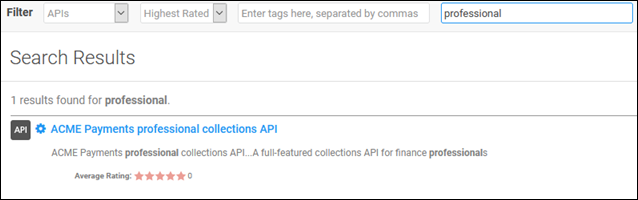
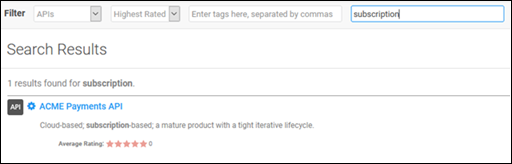
ATMO-38432_expand_search_results

diff --git a/cm/learnmore/apiadmin_api_add.htm b/cm/learnmore/apiadmin_api_add.htm
@@ -44,8 +44,13 @@ nav-title: Add an API
 	<li><a href="#api_approval_required">Should I require approval for API access requests?</a></li>
 	<li><a href="#what_is_a_proxy_api">Why would I use the platform to proxy my API?</a></li>
 	<li><a href="#platform_support_of_overloaded_operations">Does the platform support overloaded operations?</a></li>
-	<li><a href="#api_search_results">How can I control the search results entry for my API?</a></li>
-</ol>
+	<li><a href="#api_search_results">How can I control the search results entry for my API?</a>
+		<ul>
+			<li><a href="#search_results_entry_construction">How the search results entry is constructed</a></li>
+			<li><a href="#search_results_entry_examples">Search entry results: examples</a></li>
+		</ul>
+	</li>
+	</ol>
 
 
 
@@ -552,53 +557,90 @@ nav-title: Add an API
 <h4 class="stamp">Valid in Version: 2019.1.32 and later</h4>
 <p>When users search for your API in the <strong>All APIs</strong> list, or perform any search that will include your API in the search results, a snippet of information is displayed about your API in the search results.</p>
 <p>The search results entry is an opportunity to showcase your API in a brief summary.</p>
-<p>In earlier versions, the Community Manager developer portal displayed information from the <strong>API Description</strong> field for the search results entry. In version 2019.1.32 and later, it constructs the copy for the search results entry by pulling information (depending on the term or terms that the user searches on) from either or both of these two fields in the API definition:</p>
+<p>In versions prior to 2019.1.32, the Community Manager developer portal displayed information from the <strong>API Description</strong> field for the search results entry. In version 2019.1.32 and later, it supports keyword search in the <strong>Summary</strong> field also. To match a search term, it pulls the copy for the search results entry from a concatenation of both these fields in the API definition:</p>
 <ol>
 	<li>Summary</li>
-	<li>API Description
-	<p><strong>Note</strong>: When you create an API, if you don't provide a value in the Description field, the <strong>API Name</strong> is used for the <strong>API Description</strong>.</p></li>
+	<li>API Description (or API Name if no API Description is provided)</li>
 </ol>
-<p>Some examples of search entries are shown below.</p>
-<p>In constructing the search results entry, the platform looks for the search string across all APIs that the user has access to, and applies the following logic:</p>
+	<p><strong>Note</strong>: For information about setting up the <strong>Summary</strong> and <strong>API Description</strong> fields, see <a href="#proc_api_edit">To edit basic data about an API or API version</a> above.</p>
+
+<h3 id="search_results_entry_construction">How the search results entry is constructed</h3>
+<p>For the search results entry, the Search feature pulls from a concatenated string of the Summary and Description fields, using an ellipsis (...) as a delimiter if information is pulled from different sections.</p>
+<p>There are two basic scenarios:</p>
 <ul>
-	<li>If there is a match only in the Summary, the search results entry includes the whole <strong>Summary</strong> if it is short, or the part of the <strong>Summary</strong> that includes the search string. See <a href="#app_search_results_example_01">example #1</a> below.</li>
-	<li>If there is a match only in the <strong>API Description</strong>, the search results entry includes the whole <strong>API Description</strong> if it is short, or the part of the <strong>API Description</strong> that includes the search string. See <a href="#app_search_results_example_02">example #2</a> below.</li>
-	<li>If there is a match in both <strong>Summary</strong> and <strong>API Description</strong>, the search results entry includes a snippet from each field, separated by an ellipsis. See <a href="#app_search_results_example_03">example #3</a> below.</li>
+	<li><strong>With no search string provided:</strong>
+		<p>In the All APIs list, if no search term is specified, the Search feature lists the Summary, if provided, then an ellipsis (...), then the Description (or API Name if Description is not provided). If the concatenation of these two fields is very long, only a segment of the Description is shown.</p></li>
+	<li><strong>With search string:</strong>
+<p>The Search feature pulls from the concatenated Summary and Description fields to create the search results entry. Where a match is found, a few words are included before or after the search word or string to provide context. If the search results entry includes information from both Summary and Description, an ellipsis is used as a separator. The word or words from the search string are bolded in the search results entry.</p>
+<p>The exact format of the search results entry depends on the terms searched for, where they fall in the Summary and/or Description, and the amount of copy in the Summary and Description fields.	</p>
+	</li>
 </ul>
-<p>Notes:</p>
+<p>Depending on where the search string appears in the concatenated string of Summary + Description, the search results entry might include:</p>
 <ul>
-	<li>For information about setting up the <strong>Summary</strong> and <strong>API Description</strong> fields, see <a href="#proc_api_edit">To edit basic data about an API or API version</a> above.</li>
-	<li>After you've defined values for these fields and saved your API, it's a good idea to check how your API will appear in search results. To do this, just go to <strong>APIs</strong> &gt; <strong>All APIs</strong> and perform one or more test searches. If you want to adjust the snippet of information in the search results, modify the values for one or both of these fields, save, and then check again.</li>
+	<li>Only words from the Summary.</li>
+	<li>Only words from the Description.</li>
+	<li>Segments (or the entire copy, if short) from both Summary and Description.</li>
 </ul>
-<h4 id="app_search_results_example_01">Example #1: Only the Summary includes a match for the search term </h4>
+
+<h3 id="search_results_entry_examples">Search entry results: examples</h3>
+<p>The examples below illustrate the following scenarios:</p>
+<ul>
+	<li><a href="#app_search_results_example_01">Example #1: No search term</a></li>
+	<li><a href="#app_search_results_example_02">Example #2: Only the Summary includes a match for the search term</a></li>
+	<li><a href="#app_search_results_example_03">Example #3: Only the Description includes a match for the search term</a></li>
+	<li><a href="#app_search_results_example_04">Example #4: Both Summary and Description include a match for the search term</a></li>
+</ul>
+
+<h4 id="app_search_results_example_01">Example #1: No search term</h4>
+<p>In this example:</p>
+<ul>
+	<li>Search term: None provided</li>
+	<li><strong>Summary</strong> text: ACME Payments API Summary: Encompasses all ACME Payments APIs</li>
+	<li><strong>API Description</strong> text: ACME Payments API Description: Includes functions from all ACME Payments APIs including Billing, Collections, and Credit Processing.</li>
+</ul>
+<p>In this example, no search term was specified. The search results include the full Summary text, an ellipsis, and the full Description text.</p>
+<p><strong>Note</strong>: If the total text string is very long, only a segment of it is included in the search results.</p>
+<p><img src="assets/api_search_results_01.png" alt="Search results entry for an API, example #1" /></p>
+
+<h4 id="app_search_results_example_02">Example #2: Only the Summary includes a match for the search term </h4>
 <p>In this example:</p>
 <ul>
 	<li>Search term: collections</li>
-	<li><strong>Summary</strong> text: None provided, so the API Name is used.</li>
-	<li><strong>API Description</strong> text: None provided</li>
-	</ul>
-<p>The search term appears only in the <strong>API Name</strong>, which is the default for the <strong>Summary</strong> field if summary is not specified, so all APIs with the search term in the <strong>Name</strong> are returned, with matching search results content as shown below.</p>
-<p><img src="assets/api_search_results_01.png" alt="Search results entry for an API, example #1" /></p>
+	<li><strong>Summary</strong> text: 
+		<ul>
+			<li>In #1: ACME Payments Corp collections API Summary: Collections API</li>
+			<li>In #2, none provided, so the API Name is used.</li>
+		</ul>
+	</li>
+	<li><strong>API Description</strong> text: In #3, none provided
+		<ul>
+			<li>In #1: AAPI Description: Includes all functions for activities related to collecting funds.</li>
+			<li>In #2, none provided</li>
+		</ul>
+	</li>
+</ul>
+<p>For the first API, the search term appears twice in the summary. In the search results, it is highlighted. The search entry also includes the ellipsis, and a fragment of the API Description. As well as the search term, at least a few words before and after are included in the search results, to provide context.</p>
+<p>For the second API, the search keyword appears in the API name, and no Description was provided, so the API Name is used, and there is no ellipsis.</p>
+<p><img src="assets/api_search_results_02.png" alt="Search results entry for an API, example #2" /></p>
 
-<h4 id="app_search_results_example_02">Example #2: Only the Description includes a match for the search term </h4>
+<h4 id="app_search_results_example_03">Example #3: Only the Description includes a match for the search term</h4>
 <p>In this example:</p>
 <ul>
 	<li>Search term: subscription</li>
 	<li><strong>Summary</strong> text: Top-level API for all ACME Payments customers</li>
 	<li><strong>API Description</strong> text: Includes many features including access to operations in all secondary ACME Payments APIs; collections, invoicing, billing, and many other functions. Cloud-based; subscription-based; a mature product with a tight iterative lifecycle.</li></ul>
-<p>In this example, only the part of the API Description that includes the search keyword is shown in the search results..</p>
-<p><img src="assets/api_search_results_02.png" alt="Search results entry for an API, example #2" /></p>
+<p>In this example, because the string of Summary + Description is longer, some of the copy is omitted in the search results. Only the segment of the API Description that includes the search keyword is included. As well as the search term, at least a few words before and after are included in the search results, to provide context. </p>
+<p><img src="assets/api_search_results_03.png" alt="Search results entry for an API, example #3" /></p>
 
-<h4 id="app_search_results_example_03">Example #3: Both Summary and Description include a match for the search term </h4>
+<h4 id="app_search_results_example_04">Example #4: Both Summary and Description include a match for the search term </h4>
 <p>In this example:</p>
 <ul>
 	<li>Search term: professional</li>
 	<li><strong>Summary</strong> text: ACME Payments professional collections API</li>
 	<li><strong>API Description</strong> text: A full-featured collections API for finance professionals in Fortune 500 companies who want to use Cloud-based software for their collections activities, linking to banks and other financial institutions as well as customer databases.</li>
 </ul>
-<p>In the search results entry, segments of the two fields, each containing the search term, are separated by an ellipsis (...) as shown below.</p>
-<p><strong>Note</strong>: Up to 199 characters are included in the search results. If there are less than 199 characters in total in both fields, Summary + API Description combined, and there is a match in one of the fields, all Summary and Description text is included in the search results entry. The example below has more than 199 characters.</p>
-<p><img src="assets/api_search_results_03.png" alt="Search results entry for an API, example #3" /></p>
+<p>In the search results entry, segments of the two fields, each containing the search term, are separated by an ellipsis (...) as shown below. Because the string of Summary + Description is longer, some of the copy is omitted. As with earlier examples, at least a few words are include before and after the search term in the search results, to provide context. The search term is highlighted.</p>
+<p><img src="assets/api_search_results_04.png" alt="Search results entry for an API, example #4" /></p>
 <p><a href="#top">Back to top</a></p>
 
 

diff --git a/cm/learnmore/app_create_app_add.htm b/cm/learnmore/app_create_app_add.htm
@@ -418,7 +418,7 @@ This task is performed using the <strong>API Access Wizard</strong> accessible b
 <ul>
 	<li>If there is a match only in the <strong>Summary</strong>, the search results entry includes a snippet of the <strong>Summary</strong> that includes the search string. </li>
 	<li>If there is a match only in the <strong>App Description</strong>, the search results entry includes a snippet of the <strong>App Description</strong> that includes the search string. </li>
-	<li>If there is a match in both <strong>Summary</strong> and <strong>App Description</strong>, the search results entry includes a snippet from each field, showing the occurrence of the search term,, separated by an ellipsis.</li>
+	<li>If there is a match in both <strong>Summary</strong> and <strong>App Description</strong>, the search results entry includes a snippet from each field, showing the occurrence of the search term, separated by an ellipsis.</li>
 </ul>
 <p>The search functionality works in the same way for apps and for APIs. For examples, see <a href="apiadmin_api_add.htm#api_search_results">How can I control the search results entry for my API?</a></p>
 <p>For information about setting up the <strong>Summary</strong> and <strong>App Description</strong> fields, see <a href="#add_app">How do I add an app?</a> above.</p>
